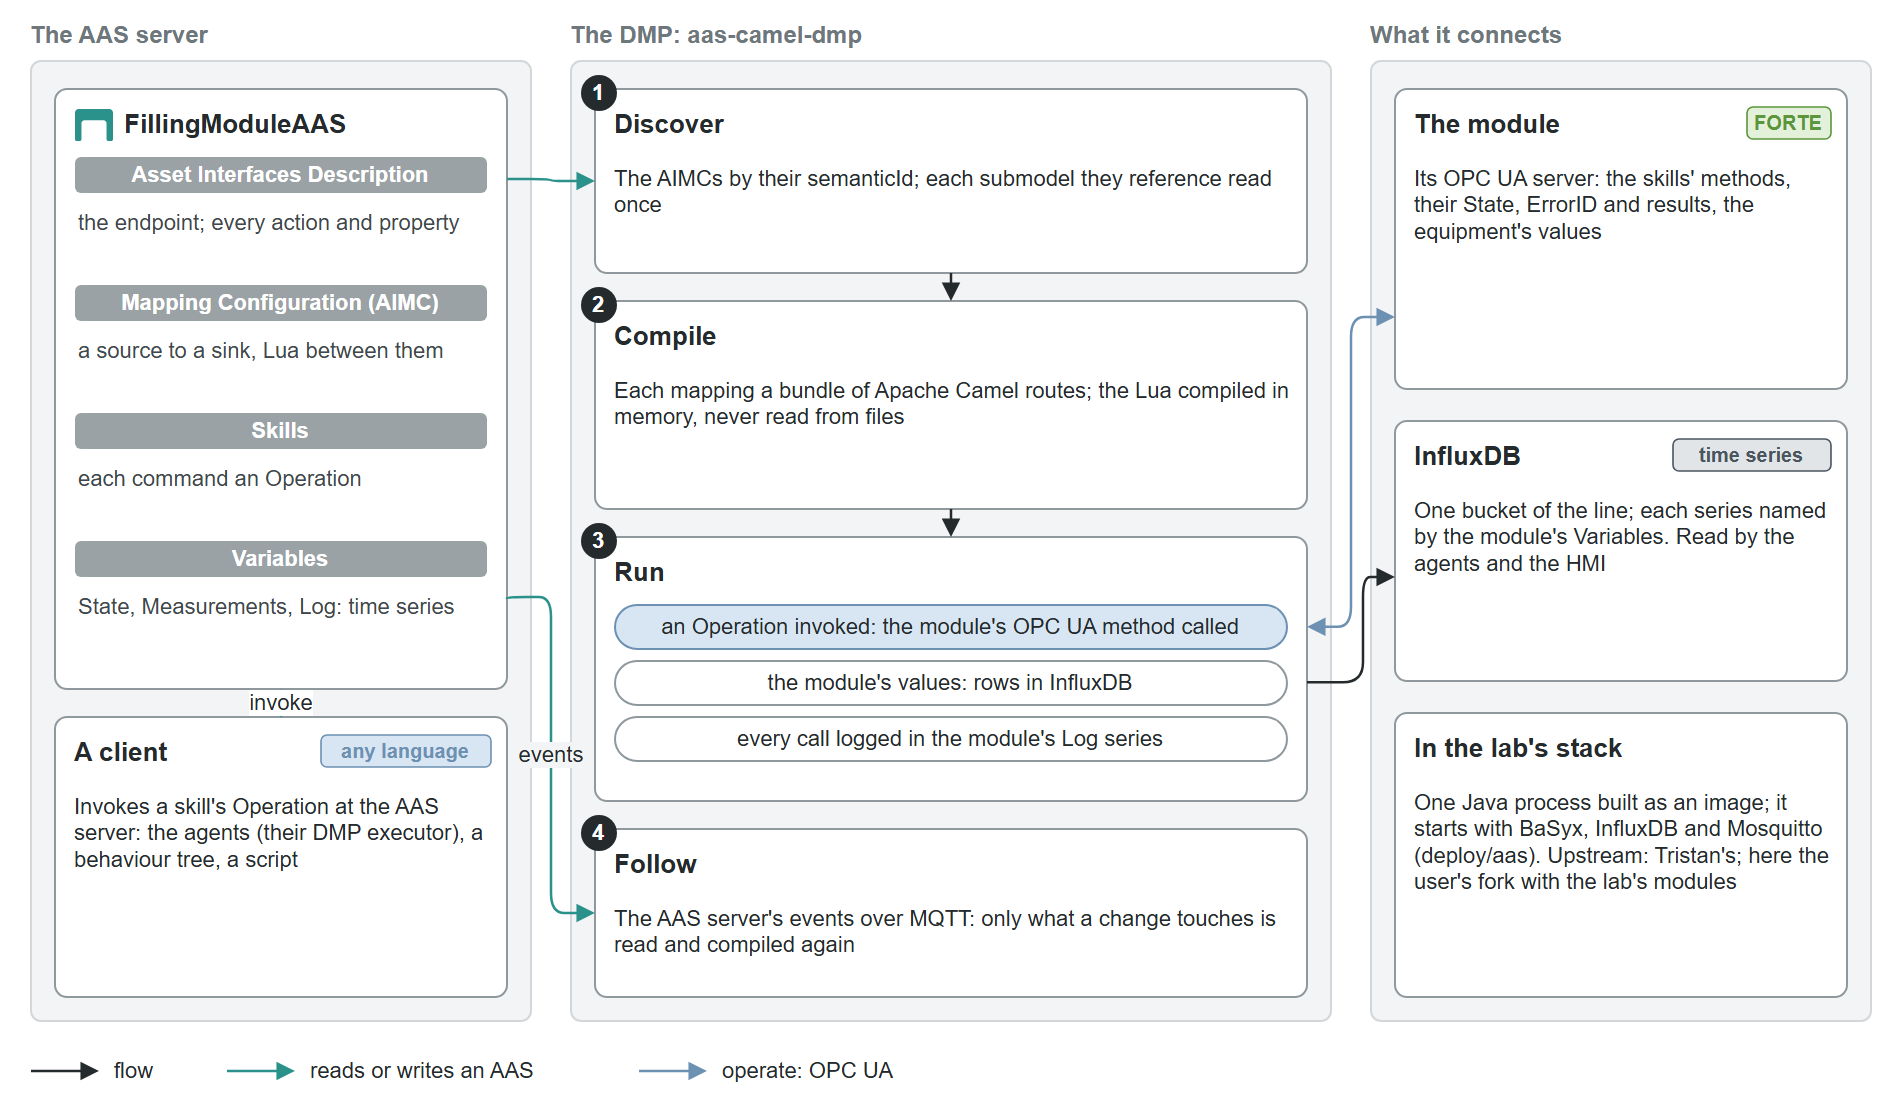
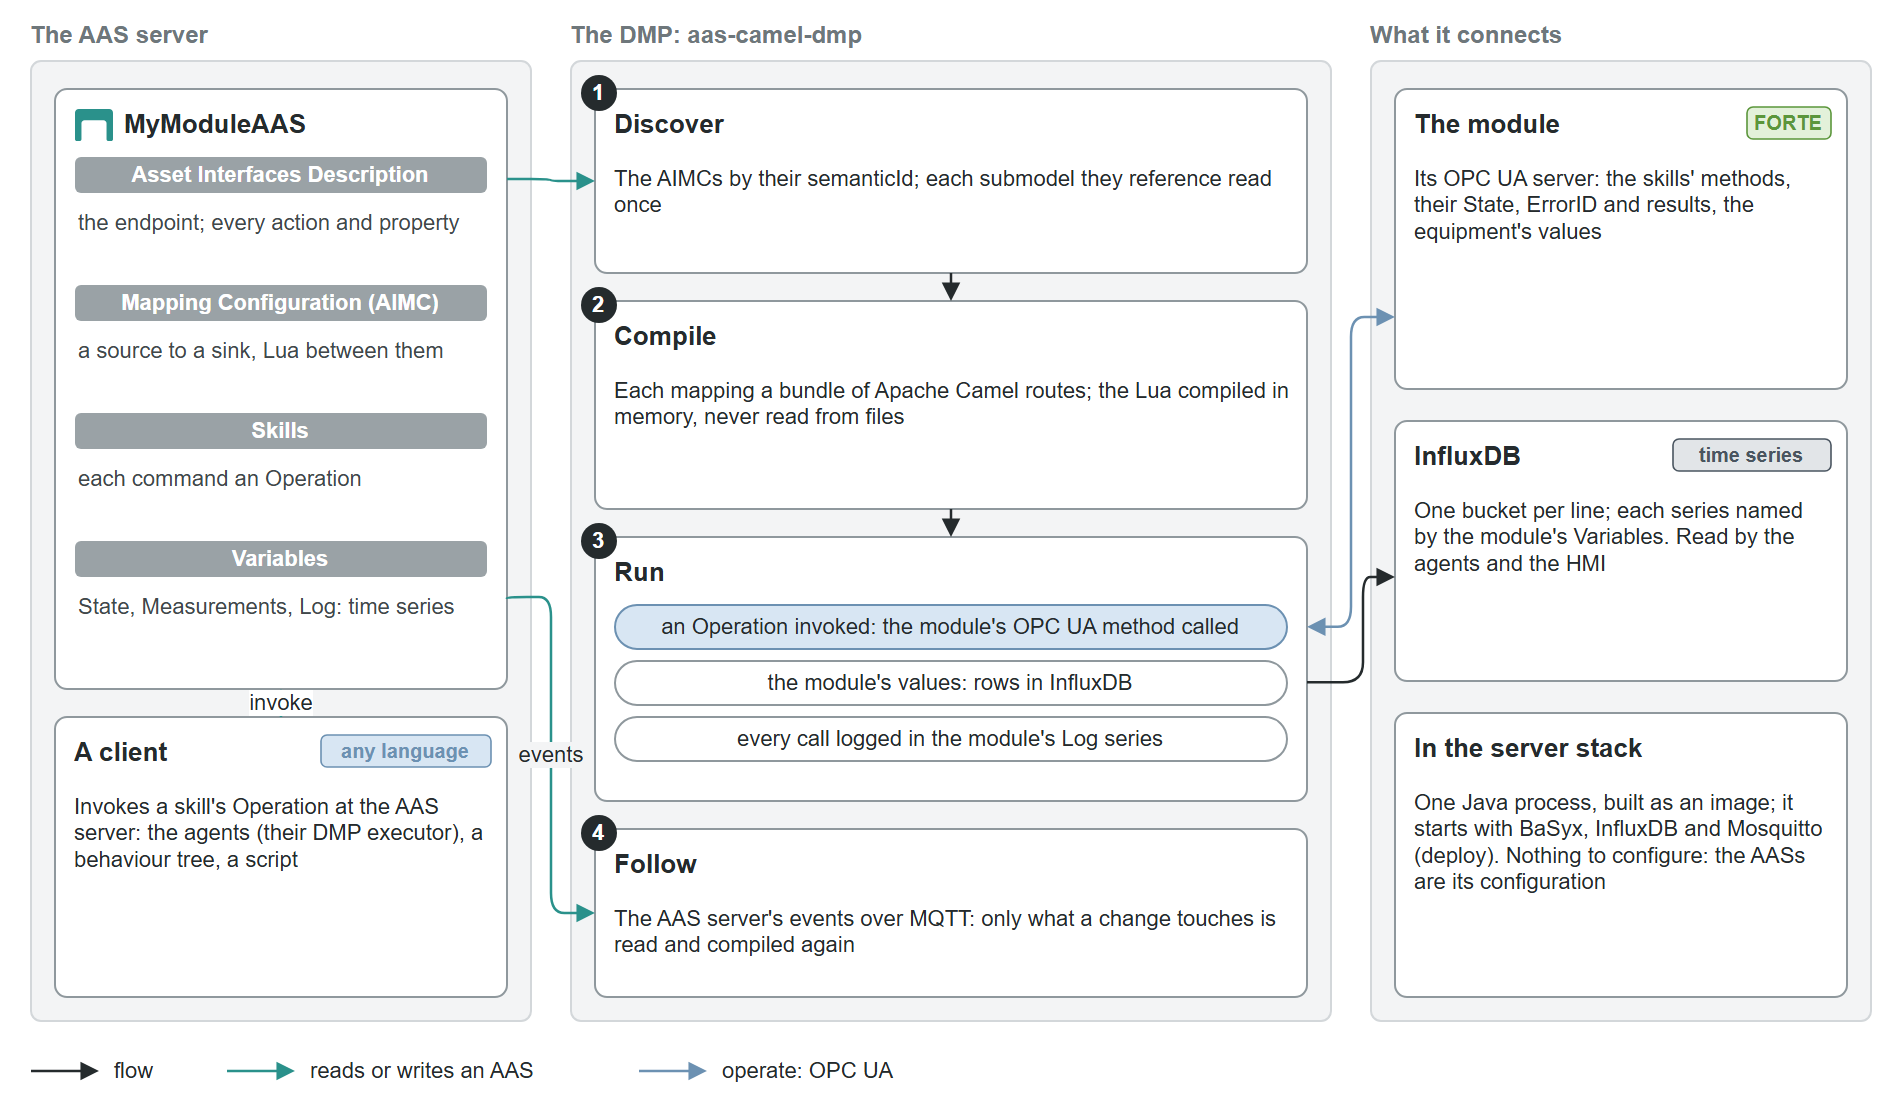
Integration pages and figures: any module, placeholders, current repositories

Changed region(s): [[0.7437, 0.6562, 0.9606, 0.8125], [0.8057, 0.4375, 0.9606, 0.4688], [0.062, 0.0938, 0.1859, 0.125]]

diff --git a/docs/integration/registration.md b/docs/integration/registration.md
@@ -2,11 +2,11 @@
 
 <span class="pillar integration">Integration</span> `modreg serve`: builds a resource's AAS from its
 profile, checks it against the resource ontology, publishes it on the AAS server, and finds new
-modules on the network by itself. Folder `aas61499-tools/modreg`; becomes the `registration-service`
-repository.
+modules on the network by itself. A package of
+[aaspire-tools](https://github.com/AAU-AASPIRE/aaspire-tools).
 
 <figure markdown="span">
-  [![A Raspberry Pi announcing its OPC UA server and serving its manifest; the service's five steps
+  [![A new module announcing its OPC UA server and serving its manifest; the service's five steps
   from Discover to Publish; the AAS server and those who read it](../figures/registration.png)](../figures/registration.png)
   <figcaption>A module is found (1), its profiles fetched from beside FORTE (2), built into AASs (3),
   checked against ARSO (4) and published (5). A profile can also be sent by hand.</figcaption>
@@ -16,16 +16,17 @@ repository.
 
 1. **Discover** (`--discover`): FORTE announces its OPC UA server by mDNS when it starts; the service
    notices a server it does not know.
-2. **Fetch** the module's manifest from beside FORTE (`http://<Pi>:8088/manifest.json`): the profiles of
-   the module's AAS and of its components' AASs. Or a profile arrives by hand: `POST /profiles`, or
-   `modreg register`.
+2. **Fetch** the module's manifest from beside FORTE (`http://<module>:8088/manifest.json`): the
+   profiles of the module's AAS and of its components' AASs. Or a profile arrives by hand:
+   `POST /profiles`, or `modreg register`.
 3. **Build**: each profile is read into its aas-model type, and the AAS is made from it.
 4. **Check** against ARSO, closed: a broken restriction refuses the module; `--strict` also refuses
    what the ontology does not describe.
 5. **Publish** to the AAS server, with the offered capabilities derived from the skills. A profile
    registered again unchanged is not published again.
 
-The service keeps each profile, its AAS and the integrator's record in its store folder.
+The service keeps each profile, its AAS and the integrator's record in its store folder (`--store`,
+`registry/` by default).
 
 ## Its endpoints
 
@@ -34,7 +35,7 @@ The service keeps each profile, its AAS and the integrator's record in its store
 | `POST /profiles`, `GET /profiles`, `GET /profiles/<id>[/profile\|/aas\|/registration]`, `DELETE /profiles/<id>` | Registering, reading and removing a resource |
 | `POST /check/<module>` | The Skill Editor: is this skill buildable on this module? |
 | `POST /plan/<module>` | The Skill Editor and the Planner's Match and plan: plan a skill for a requirement ([modplan](../planning/modplan.md)); written, the offered capabilities derived anew |
-| `POST /match` | The Planner's Match resources and Match and plan: which resources offer what a step requires, with the one matcher the agents, the plan check and the evaluation use (`modreg.match`) |
+| `POST /match` | The Planner: which resources offer what a step requires, with the one matcher the agents and the plan check use (`modreg.match`) |
 | `POST /capabilities/<module>` | The offered capabilities derived from the skills |
 | `POST /process/<product>` | The Planner and the Configurator: the product's process AAS on a line, from the bindings, with the plan check's result |
 | `GET /build/<id>`, `PUT /build/<id>` | The integrator's record of what was built |
@@ -42,22 +43,23 @@ The service keeps each profile, its AAS and the integrator's record in its store
 
 ## Use it
 
+From the workspace folder, with the [server stack](../deployment/deploy.md) running:
+
 ```powershell
-python -m pip install -e ".[registration]"
-python -m modreg serve --ontology ontology/ARSO --basyx http://localhost:8081 --discover   # on :8090
-python -m modreg register filling --target pi --service http://localhost:8090   # a profile by hand
-python -m modreg register filling --target pi --service http://localhost:8090 --check   # only check
-python -m modsync pull --host 192.168.0.203 --register http://localhost:8090    # what runs on a module
+python -m pip install -e aaspire-tools
+python -m modreg serve --ontology ontologies/ARSO --basyx http://localhost:8081 --discover   # on :8090
+python -m modreg register <module-spec.yaml> --service http://localhost:8090 --check   # only check
+python -m modreg register <module-spec.yaml> --service http://localhost:8090           # register
+python -m modsync pull --host <module host> --register http://localhost:8090         # what runs on a module
 ```
 
-`--register` also works with `modsync describe`, `push` and `watch`: a module is registered when it
-comes online or changes. The plain `Resource` export of the lab's MQTT stations goes through the same
-service.
+`register` takes a profile (`.json`) or a module spec; `--target` picks the spec's target. `--register`
+also works with `modsync describe`, `push` and `watch`: a module is then registered whenever it comes
+online or changes.
 
-!!! warning "The lab's AAS server"
-    The lab's shared AAS server holds the live shells of the lab's stations; an AAS with the same ids
-    would overwrite them. Publish there only with the lab's agreement. For work, run the
-    [stack on your own PC](../deployment/deploy.md).
+!!! warning "A shared AAS server"
+    If your organization runs a shared AAS server with live shells, an AAS with the same ids
+    overwrites them. Try things on the [stack on your own PC](../deployment/deploy.md) first, and
+    publish to a shared server only when its owners agree.
 
-Read further: [aas-models.md](../reference/aas-models.md),
-[agents.md](https://github.com/AAU-AASPIRE/aaspire-internal/blob/main/docs/agents.md), section 2 (discovery).
+Read further: [the AAS models](../reference/aas-models.md).

diff --git a/docs/integration/modlink.md b/docs/integration/modlink.md
@@ -2,14 +2,13 @@
 
 <span class="pillar integration">Integration</span> Runs a module's skills from its AAS over OPC UA. It
 reads the AAS as plain JSON, follows its references to the OPC UA nodes, and calls the module the way
-every module is called: occupy, bring it to Execute, start the skill, wait for its end, release. In the
-[aaspire-tools](https://github.com/AAU-AASPIRE/aaspire-tools) with the other tools; the HMI
-([iec61499-opcua-hmi](https://github.com/AAU-AASPIRE/iec61499-opcua-hmi)) is built on it, and its
-tests run on the HMI's module simulator.
+every module is called: occupy, bring it to Execute, start the skill, wait for its end, release. A
+package of [aaspire-tools](https://github.com/AAU-AASPIRE/aaspire-tools); the
+[HMI](https://github.com/AAU-AASPIRE/iec61499-opcua-hmi) is built on it.
 
 <figure markdown="span">
   [![The four AAS submodels modlink follows by reference, modlink's Resource, Link and a run in six
-  steps, and the module's OPC UA nodes below /Objects/Filling](../figures/modlink.png)](../figures/modlink.png)
+  steps, and the module's OPC UA nodes below /Objects/MyModule](../figures/modlink.png)](../figures/modlink.png)
   <figcaption>The AAS is resolved by references and meanings, never by names (1 to 4); one OPC UA
   connection per endpoint; a run in six steps.</figcaption>
 </figure>
@@ -25,7 +24,8 @@ tests run on the HMI's module simulator.
 4. **Mapping Configuration and Variables**: which property shows a skill's state, its error and each
    result.
 
-A skill built online is found as soon as modsync has recorded its interface; no client changes.
+Because nothing is looked up by name, a skill built online is found as soon as modsync has recorded
+its interface; no client changes.
 
 ## A run
 
@@ -36,29 +36,30 @@ makes one call at a time. A `Module` stands for one module and one occupation se
 1. occupy the module with a session id;
 2. Clear, Reset and Start as its state needs, so the module is in Execute;
 3. listen to the skill's State before anything is sent;
-4. call `Skills/<Skill>/Start(Session, values)`; FORTE answers `[Accepted, ErrorID]` at once, and a refusal
-   (NotReady, NotPermitted, Busy, OutOfRange) is raised;
+4. call `Skills/<Skill>/Start(Session, values)`; the module answers `[Accepted, ErrorID]` at once, and a
+   refusal (NotReady, NotPermitted, Busy, OutOfRange) is raised;
 5. the first end state after the start (Succeeded, Failed, Aborted) ends the run;
 6. the results are read from the subscribed values; release.
 
 `run_capability` asks which skill realizes a capability and runs it with the given values and the
-skill's defaults for the rest.
+skill's defaults for the rest. That is the call to use from your own scripts: you name what you want
+done, not which skill or which node does it.
 
 ## Who uses it
 
-- **The HMI** (FastAPI): the modules from their AAS, their PackML state, skills with parameters and
-  results, the sensors; operated through methods only.
+- **The HMI**: every module from its AAS, its PackML state, skills with parameters and results, the
+  sensors; operated through methods only.
 - **The agents**' OPC UA executor ([line agents](../execution/agents.md)).
-- Scripts and tests.
+- Your scripts and tests.
 
 ```powershell
 cd iec61499-opcua-hmi
 python run.py --aas http://localhost:8081        # every module registered there, at the endpoint its AAS names
-python run.py --simulate filling,stoppering      # without a machine: a stand-in serves the same address space
+python run.py --simulate <module>,<module>       # without a machine: a stand-in serves the same address space
 ```
 
 modlink writes nothing into the AAS and never uses FORTE's management protocol: operating a module
 never changes it. It does not plan, and it leaves the range check to the module, which refuses a value
 out of range itself.
 
-Read further: [tools.md](../reference/tools.md), section 4.
+Read further: [how the tools work](../reference/tools.md), section 4.

diff --git a/docs/integration/dmp.md b/docs/integration/dmp.md
@@ -2,8 +2,9 @@
 
 <span class="pillar integration">Integration</span> The data-mapping processor, `aas-camel-dmp`: it
 makes a published AAS run. An Operation invoked at the AAS server calls the module's OPC UA method,
-and the module's values become rows in InfluxDB, without a configuration file. Java with Apache Camel
-4, a fork of the Eclipse BaSyx DataBridge. Submodule `aas-camel-dmp/`.
+and the module's values become rows in InfluxDB, without a configuration file of its own: the AASs
+are its configuration. Java with Apache Camel 4, based on the Eclipse BaSyx DataBridge. Repository
+[aas-camel-dmp](https://github.com/AAU-AASPIRE/aas-camel-dmp).
 
 <figure markdown="span">
   [![The module's AAS with its interface description, mapping configuration, skills and variables; the
@@ -25,20 +26,25 @@ and the module's values become rows in InfluxDB, without a configuration file. J
 4. **Follow** the server's events (MQTT or Kafka): an event that can change a mapping re-reads only the
    changed submodel and recompiles only what depends on it; unchanged mappings keep their routes.
 
-A client therefore needs nothing but the AAS server to run a skill: the agents' DMP executor, a
-behaviour tree, a script in any language.
+A client therefore needs nothing but the AAS server to run a skill: an agent, a behaviour tree, a
+script in any language.
 
-## In the lab's stack
+## What your AAS needs
+
+For the DMP to run a module, its AAS needs an Asset Interfaces Description (the OPC UA endpoint and
+the browse paths), an AIMC that maps each Operation to an action and each property to a time series,
+and a Variables submodel that names the series. AASs built by the
+[registration service](registration.md) have all three.
+
+## In the server stack
 
 The DMP is built into the stack's `dmp` image and starts with BaSyx, InfluxDB and Mosquitto
 ([Deployment](../deployment/deploy.md)):
 
 ```powershell
 python deploy/aas.py up                          # the stack, the DMP on :8085
-python deploy/aas.py status FillingModuleAAS     # what the DMP made of a module's mappings, and why one does not run
-python deploy/aas.py rows FillingModuleAAS       # the latest row of each of the module's series
-python -m pytest cell/tests/test_dmp_live.py --module-forte-exe <forte.exe>    # a module on FORTE through the DMP
+python deploy/aas.py status <Module>AAS          # what the DMP made of a module's mappings, and why one does not run
+python deploy/aas.py rows <Module>AAS            # the latest row of each of the module's series
 ```
 
-The upstream DMP is Tristan Schwörer's; the submodule follows the user's fork with the lab's modules
-(branch `lab-modules`) until it is merged. Its own README describes every mapping it can run.
+Its own README describes every mapping it can run.

diff --git a/docs/integration/index.md b/docs/integration/index.md
@@ -14,7 +14,9 @@ ways in which a client then reaches the module.
 3. The AAS server announces the new shell over MQTT. The [DMP](dmp.md) maps the module's interface; the
    agent manager starts the module's [resource agent](../execution/agents.md).
 
-A module can also be registered by hand: a vendor or an engineer sends the profiles to the service.
+Nothing in these steps is specific to one module: a module plugs in by itself as long as it serves its
+manifest. You can also register a module by hand, sending its profiles to the service
+([register a module](../how-to/register.md)).
 
 ## Two ways to call a module
 
@@ -23,14 +25,13 @@ A module can also be registered by hand: a vendor or an engineer sends the profi
 | **Straight over OPC UA** | [modlink](modlink.md) reads the module's interface from its AAS and calls its methods: occupy, bring it to Execute, start the skill, follow its state, release | Fast; the state as it changes | What is done is not in the AAS's log |
 | **Through the AAS server** | The client invokes the skill's Operation at the AAS server; the [DMP](dmp.md) calls the module's method and writes the values to InfluxDB | One way in for every client and language; every call logged | Slower: two services in between, the state read from the database |
 
-Both orchestrators can use either; which one is a setting per resource. The proposal for the demo is
-to go through the DMP for its log and to keep the direct way for speed.
+An orchestrator can use either; you choose per resource. A good default is the AAS server where you
+want every call logged, and OPC UA where speed matters.
 
 ## The parts
 
-| Part | What | State |
-| --- | --- | --- |
-| [Registration service](registration.md) (`modreg serve`) | Builds, checks, discovers and publishes AASs; checks and plans for the Skill Editor; writes process AASs | built; its own and the colleagues' registration service to be joined into one |
-| [DMP](dmp.md) (`aas-camel-dmp`) | Runs the mappings of the published AASs | built, in the lab's AAS stack |
-| [modlink](modlink.md) | Runs a module's skills from its AAS over OPC UA | built; in the HMI repository for now |
-| mqtt-schemas | The MQTT messages' JSON schemas | the colleagues'; kept if still needed |
+| Part | What |
+| --- | --- |
+| [Registration service](registration.md) (`modreg serve`) | Builds, checks, discovers and publishes AASs; checks and plans for the Skill Editor; writes process AASs |
+| [DMP](dmp.md) (`aas-camel-dmp`) | Runs the mappings of the published AASs |
+| [modlink](modlink.md) | Runs a module's skills from its AAS over OPC UA |
